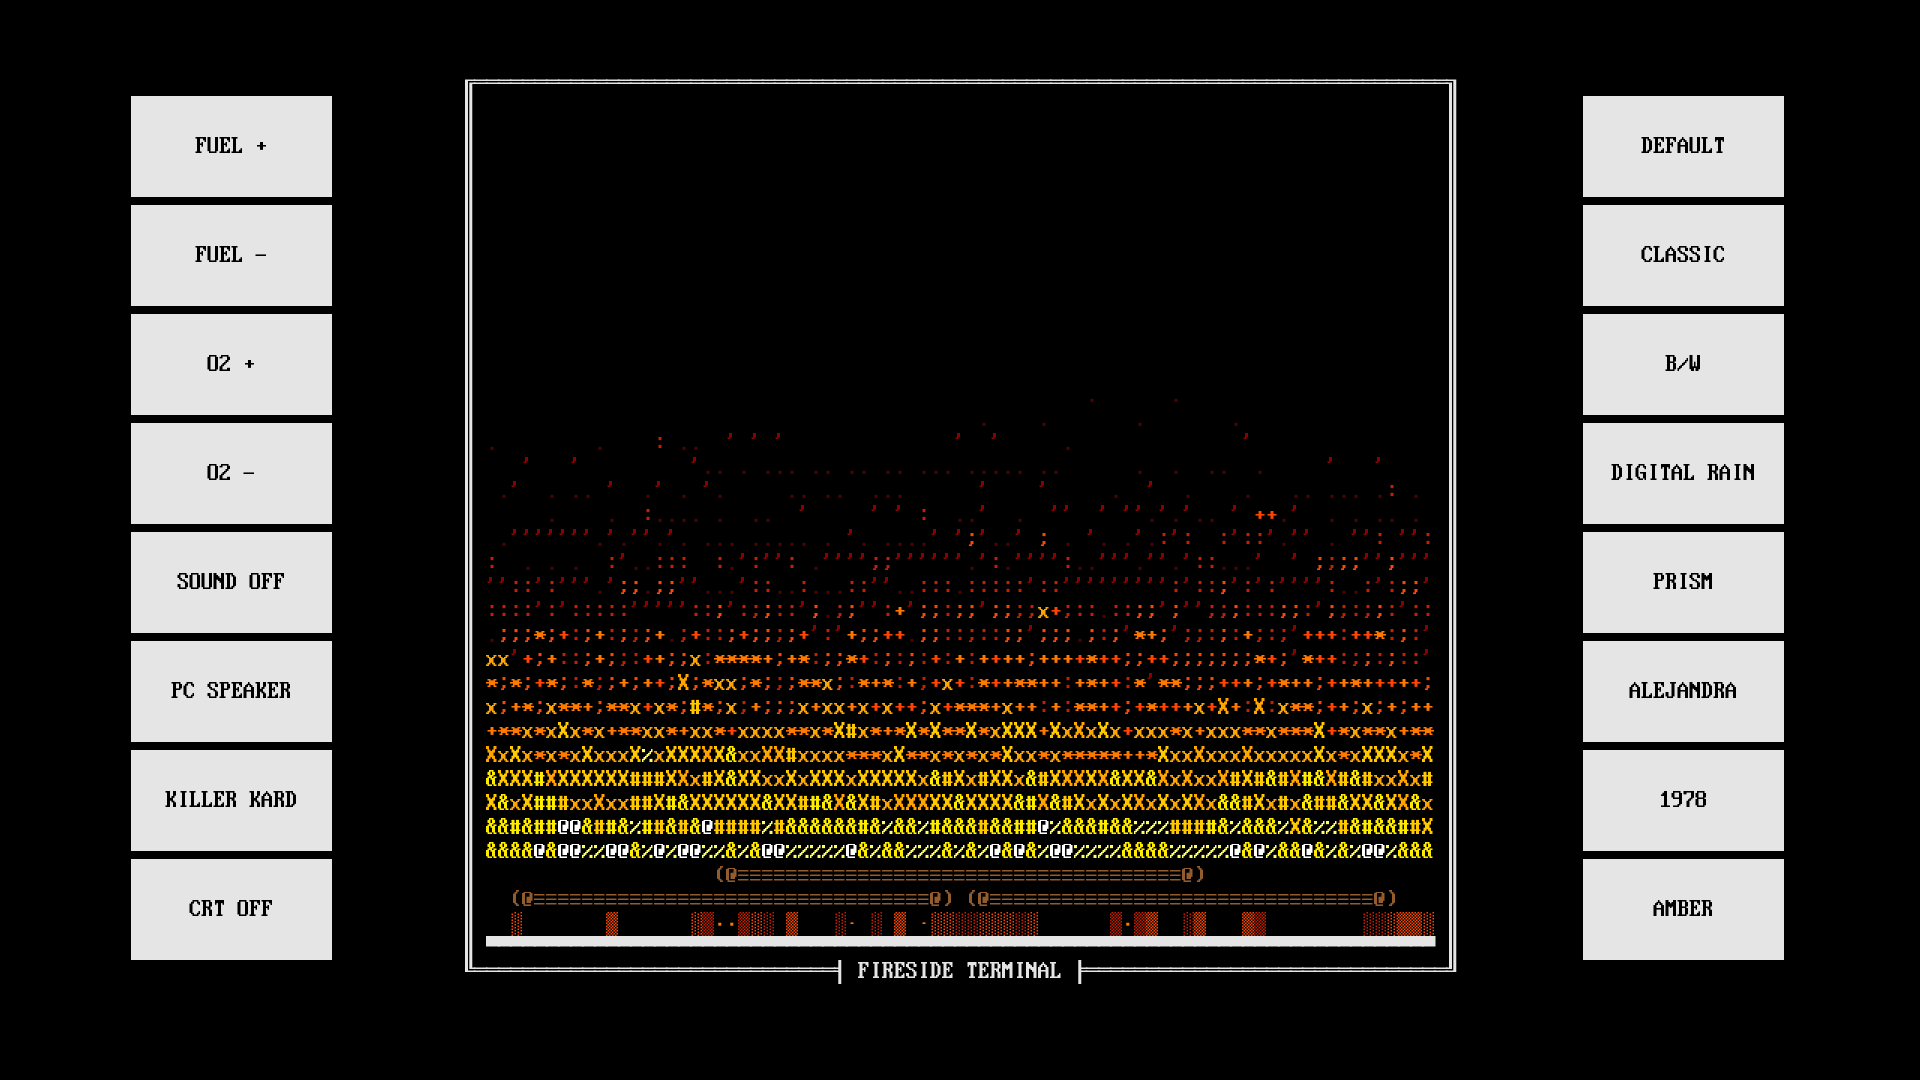
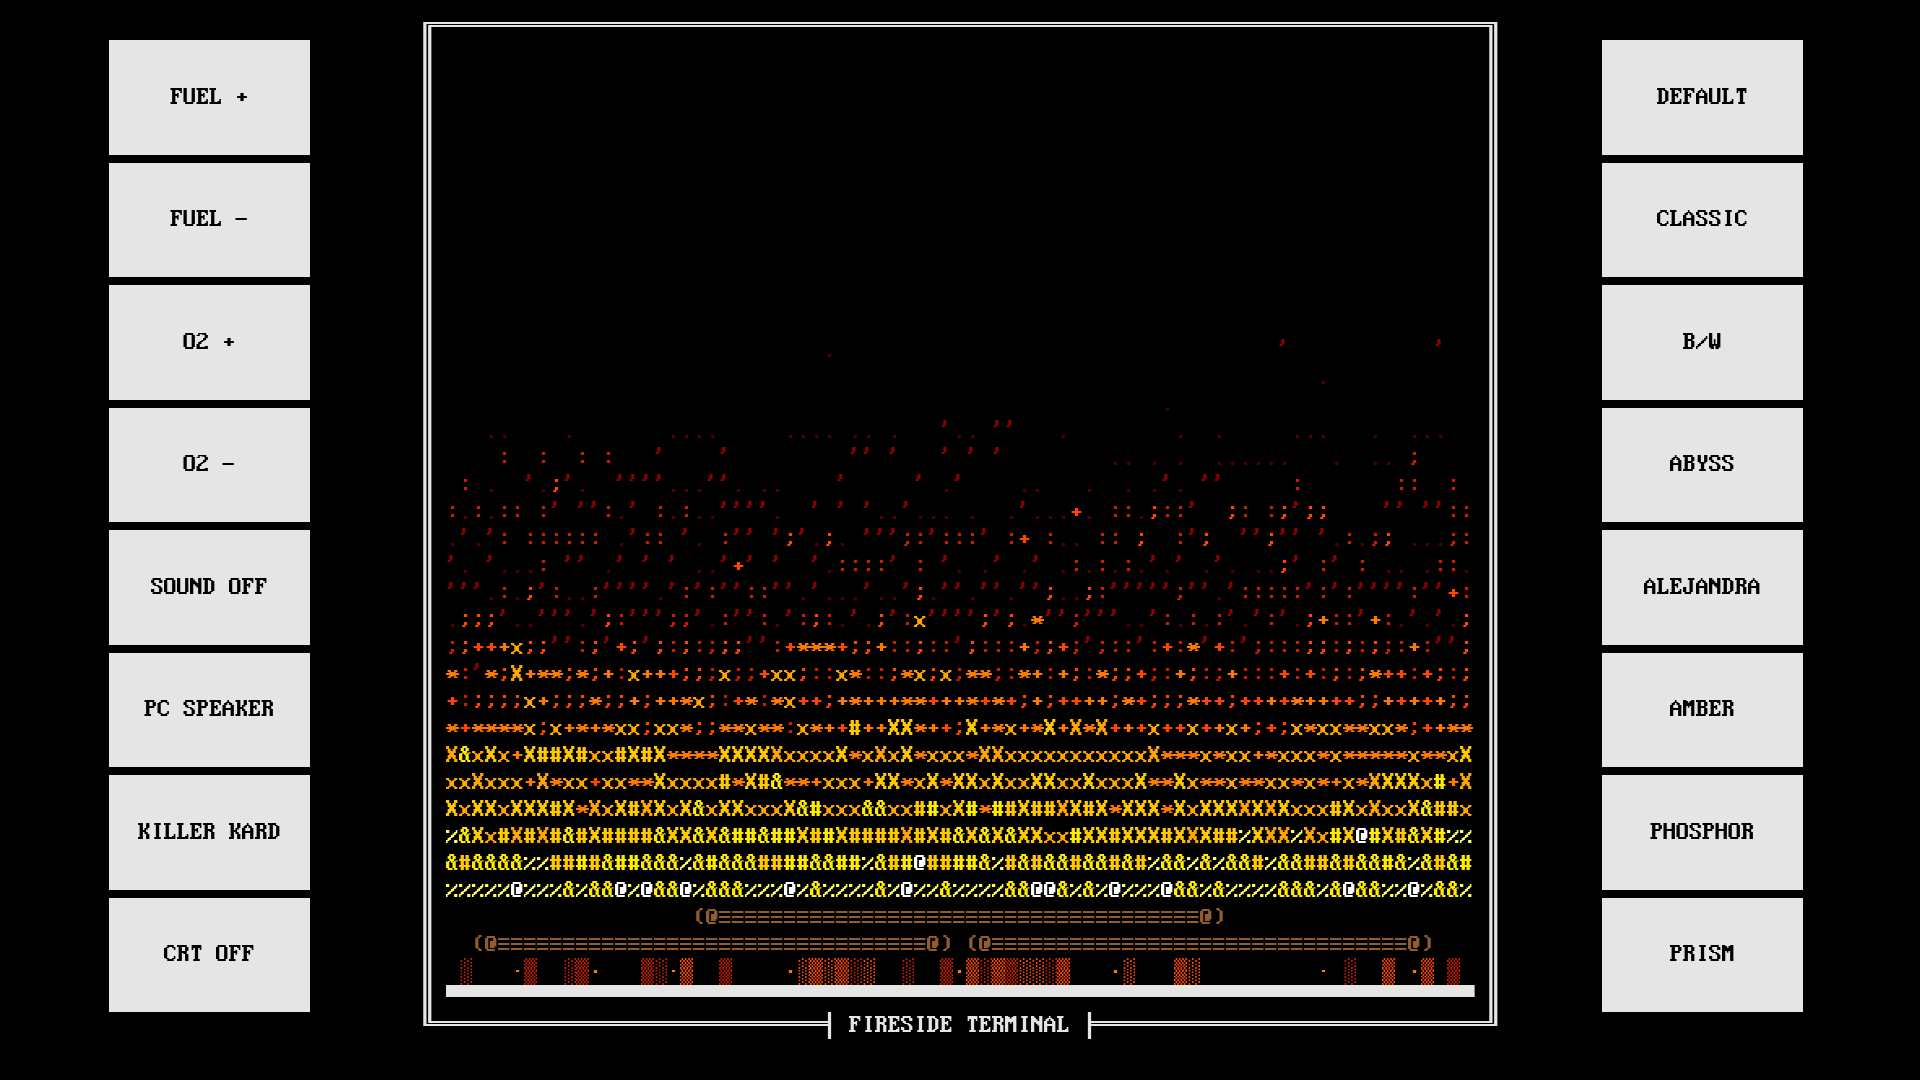
Screenshots: PHOSPHOR + CRT replaces B/W, fresh 1.1.0 captures
The B/W figure becomes PHOSPHOR under the CRT filter (phosphor-crt.jpg).
DEFAULT, CLASSIC and TEX.SYS SETUP are recaptured off the LG TV: the new
theme list (ABYSS, PHOSPHOR), the TEX wording, and the paywall's ember chip
heads and hot X. palette-bw.png and the unused digital-rain-crt.jpg are
removed.

Changed region(s): [[0.2188, 0.0, 0.7812, 0.9778], [0.0312, 0.0306, 0.1875, 0.9472], [0.8125, 0.0306, 0.9375, 0.9472]]

diff --git a/index.html b/index.html
@@ -243,8 +243,8 @@
         <figcaption>CLASSIC — terminal white</figcaption>
       </figure>
       <figure>
-        <img src="assets/palette-bw.png" alt="Black and white fire color scheme">
-        <figcaption>B/W — stark monochrome</figcaption>
+        <img src="assets/phosphor-crt.jpg" alt="Phosphor green fire under the CRT filter">
+        <figcaption>PHOSPHOR + CRT — 80T87 THERMAL EXPANSION</figcaption>
       </figure>
       <figure>
         <img src="assets/tex-setup.png" alt="TEX.SYS SETUP dialog offering the 80T87 THERMAL EXPANSION">
